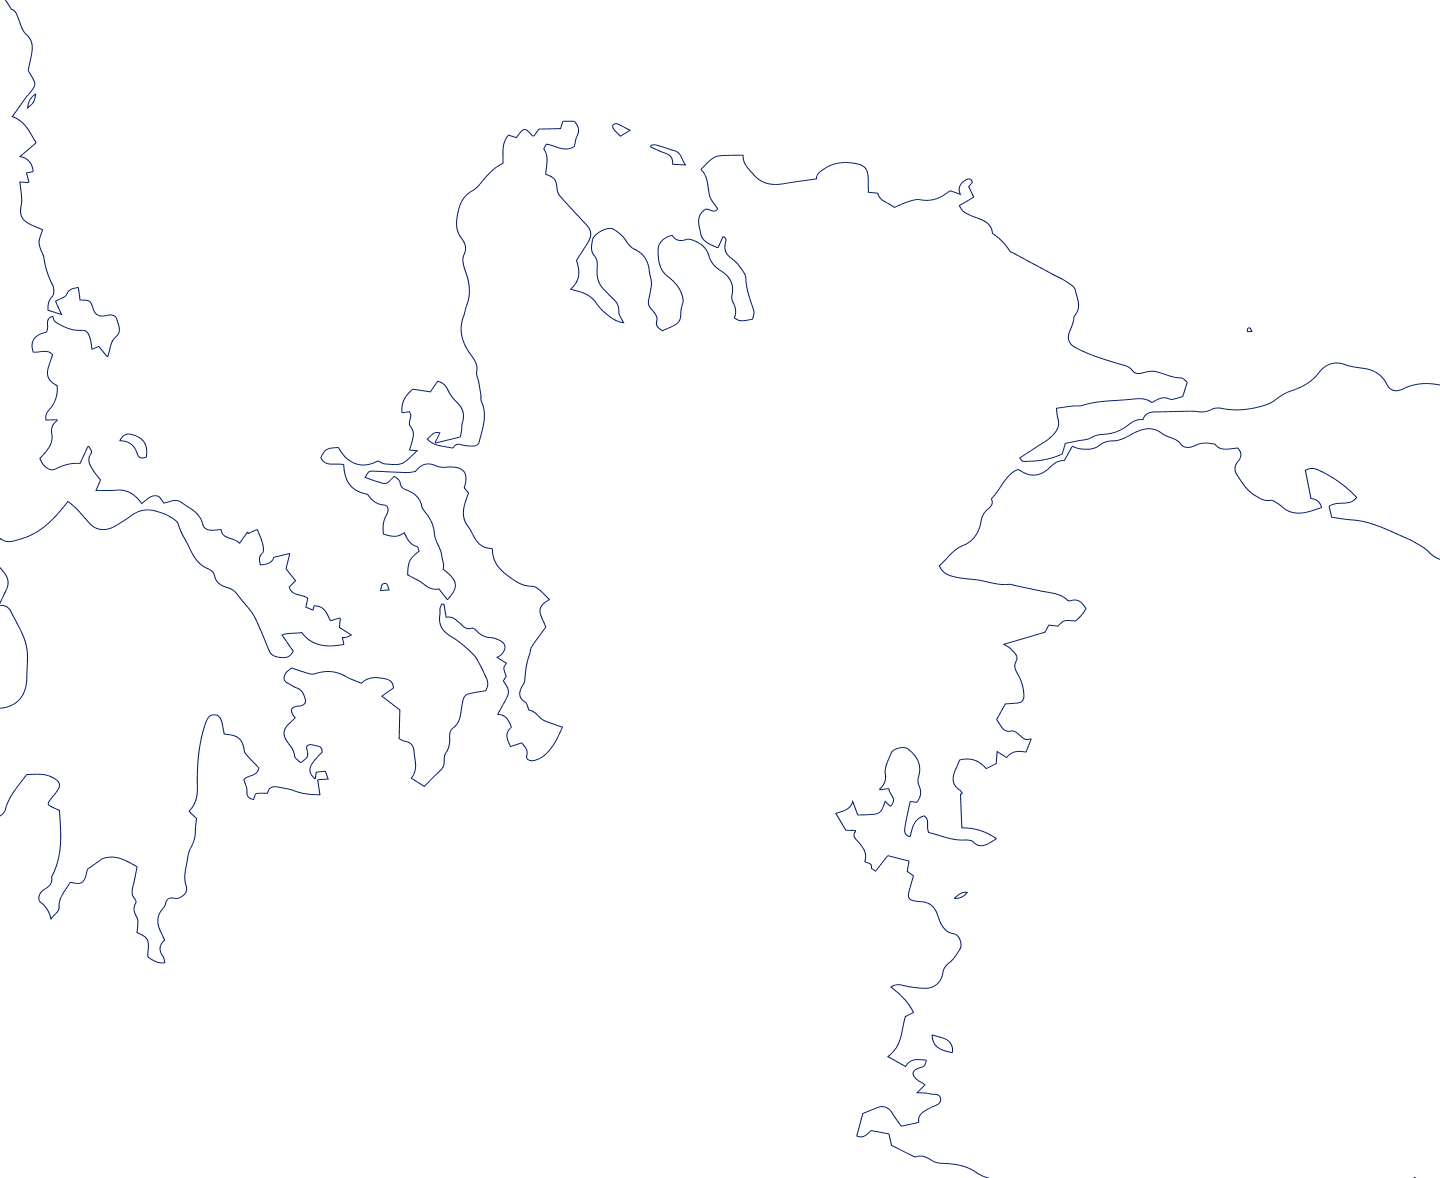
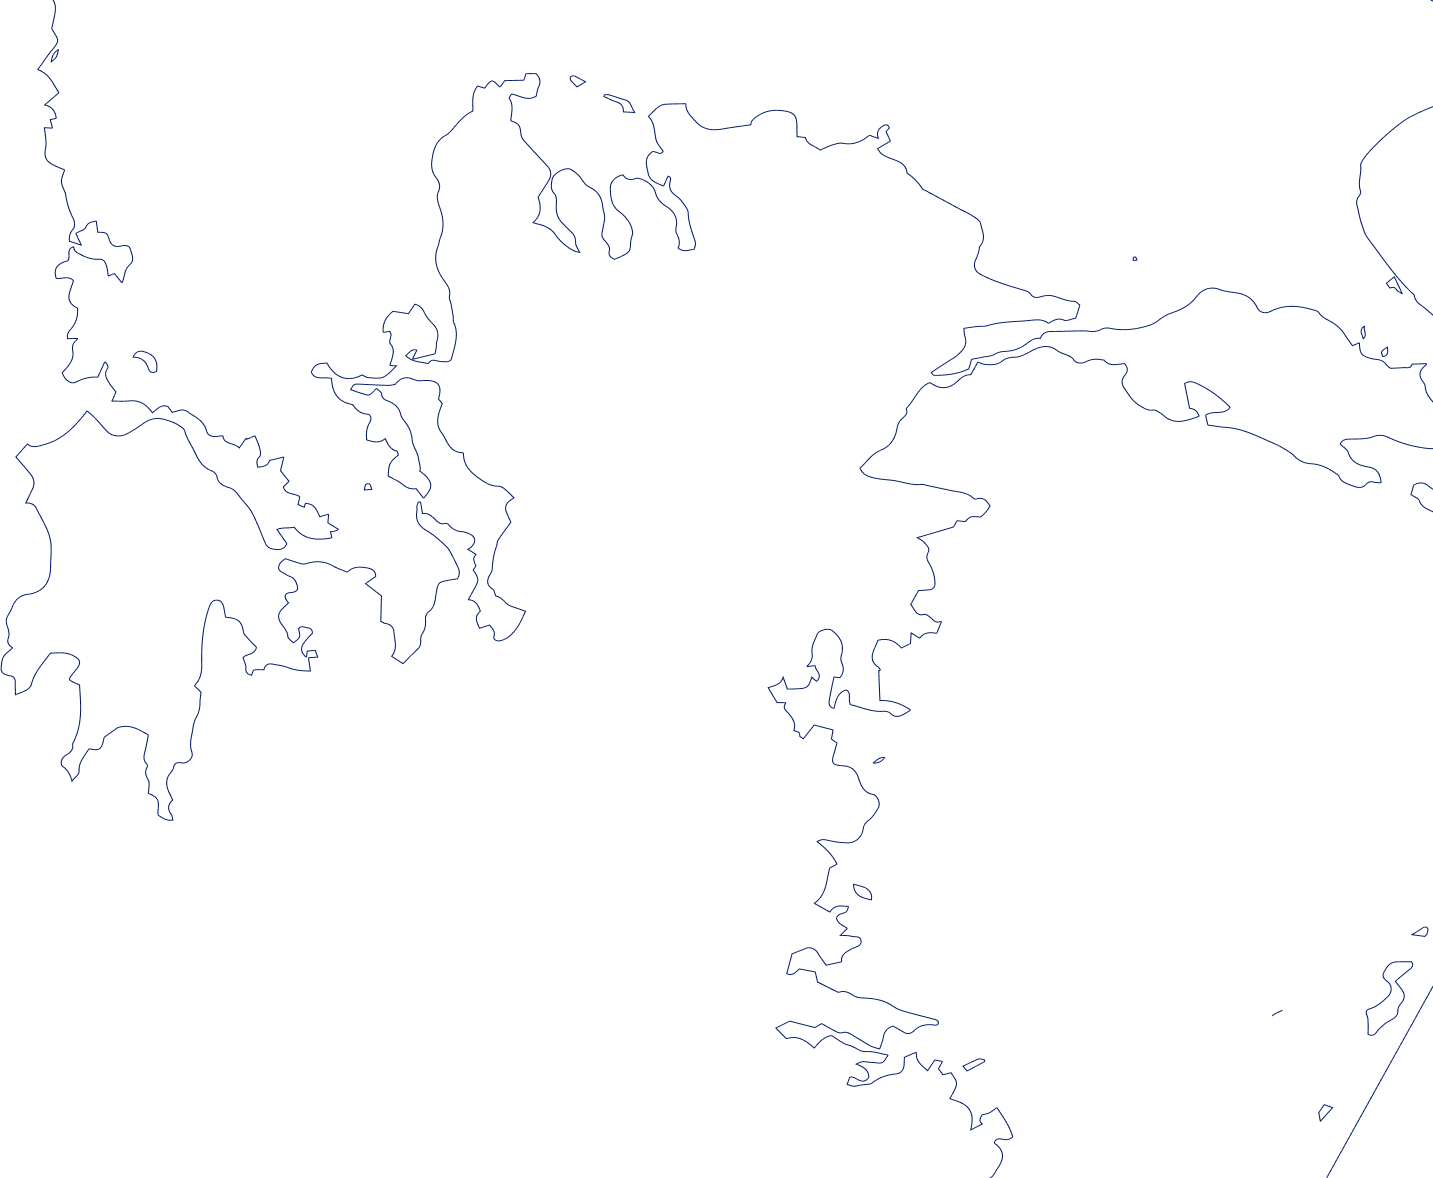
23

diff --git a/app/assets/stylesheets/posts.scss b/app/assets/stylesheets/posts.scss
@@ -2,6 +2,7 @@
 // They will automatically be included in application.css.
 // You can use Sass (SCSS) here: https://sass-lang.com/
 
+
 table {
   border-radius: 30px;
   margin: 3% 0%;

diff --git a/app/assets/stylesheets/application.css b/app/assets/stylesheets/application.css
@@ -21,7 +21,10 @@
    font-weight: normal;
    font-style: normal;
  }
+ body{
 
+     background-image: url(maps.png);
+ }
  .conteiner{
    margin: 5% 5%;
  }
